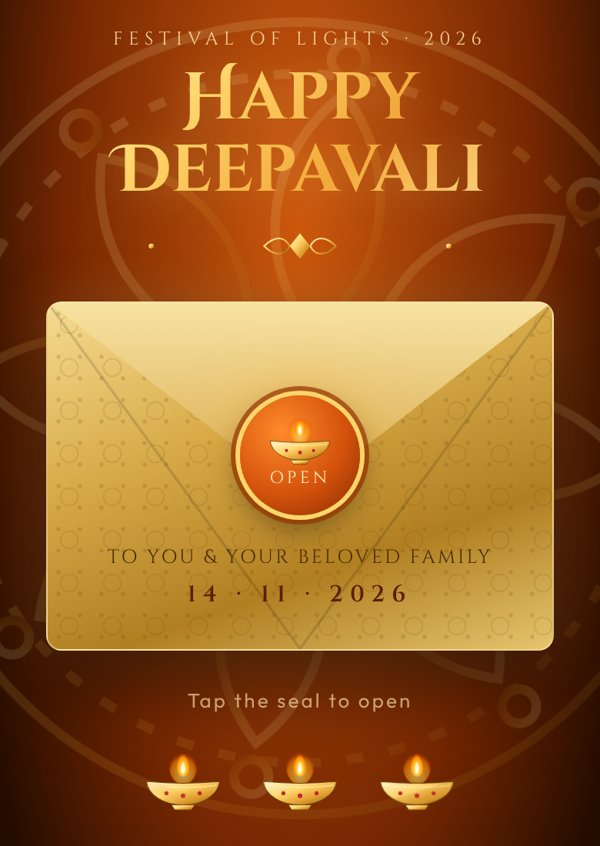
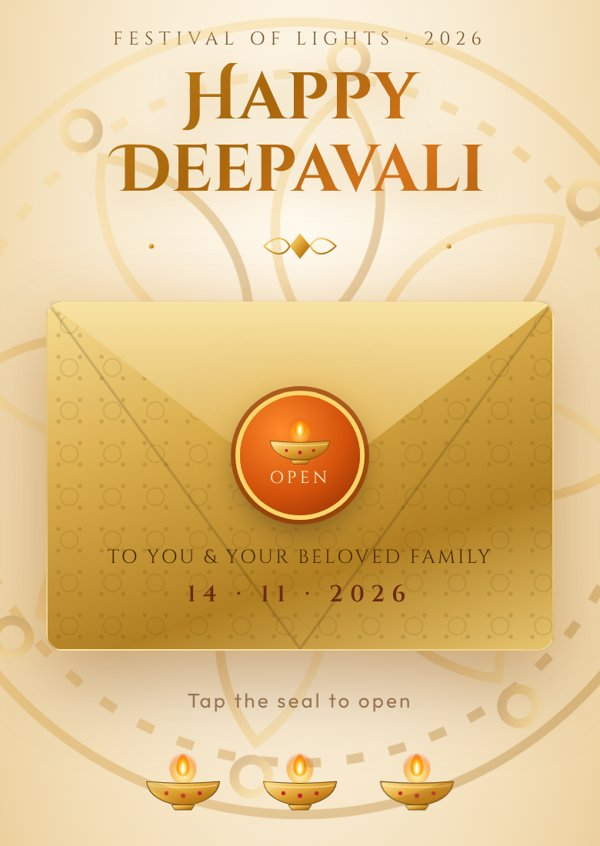
Switch to a light beige theme with gold and orange accents
Dark brown text on cream for readability; deeper gold headings,
orange highlights, fireworks recoloured for a light background.

Claude-Session: https://claude.ai/code/session_014ziKatnzRsJMZRYQMU7ncz

diff --git a/css/style.css b/css/style.css
@@ -1,19 +1,20 @@
 /* ============================================================
-   Deepavali Open House & Housewarming — rich gold theme
+   Deepavali Open House & Housewarming — beige, gold & orange theme
    ============================================================ */
 :root {
-  --maroon: #5a1e00;
-  --maroon-deep: #3a1400;
-  --plum: #5a1f02;
-  --gold: #e8c26a;
-  --gold-light: #fff1bf;
-  --gold-dark: #9a6b1e;
-  --marigold: #ffd27a;
+  --maroon: #6b2a0a;
+  --maroon-deep: #3d1d08;
+  --plum: #f8eedc;
+  --gold: #b07612;
+  --gold-light: #fff3cf;
+  --gold-dark: #8a5a10;
+  --marigold: #d2601a;
   --magenta: #c1272d;
-  --ink: #fff4dc;
-  --muted: #f3d29a;
-  --gold-grad: linear-gradient(135deg, #fff6d0 0%, #ffd56b 30%, #f2a93b 60%, #ffe39a 100%);
-  --card-bg: linear-gradient(160deg, rgba(176, 66, 8, .94), rgba(96, 32, 0, .95));
+  --ink: #3d2410;
+  --muted: #7a5530;
+  --gold-grad: linear-gradient(135deg, #fbe7a8 0%, #f1c45c 35%, #e3a43c 65%, #f8dc8e 100%);
+  --text-grad: linear-gradient(135deg, #c98a1c 0%, #a8660c 40%, #d9741a 70%, #95580a 100%);
+  --card-bg: linear-gradient(160deg, #fffaf0, #f7e7c9);
   --radius: 18px;
   --serif: "Cormorant Garamond", Georgia, serif;
   --display: "Cinzel Decorative", "Cinzel", serif;
@@ -43,20 +44,20 @@ svg { display: block; }
 .bg-glow {
   position: fixed; inset: 0; pointer-events: none; z-index: 0;
   background:
-    radial-gradient(circle at 15% 20%, rgba(255, 159, 28, .22), transparent 35%),
-    radial-gradient(circle at 85% 70%, rgba(255, 196, 80, .16), transparent 40%),
-    radial-gradient(circle at 50% 110%, rgba(255, 110, 20, .35), transparent 50%),
-    radial-gradient(ellipse at 50% 0%, #c9560c 0%, #9a3a06 40%, #6a2402 80%, #5a1f02 100%);
+    radial-gradient(circle at 10% 15%, rgba(255, 168, 80, .22), transparent 35%),
+    radial-gradient(circle at 90% 65%, rgba(240, 190, 90, .25), transparent 40%),
+    radial-gradient(circle at 50% 110%, rgba(255, 150, 70, .22), transparent 50%),
+    linear-gradient(180deg, #fdf6e8 0%, #f8ecd6 50%, #f3e1c2 100%);
 }
 .bg-glow::after {
-  content: ""; position: absolute; inset: 0; opacity: .06;
+  content: ""; position: absolute; inset: 0; opacity: .12;
   background-image: radial-gradient(circle, var(--gold) 1px, transparent 1.4px);
   background-size: 26px 26px;
 }
 .bg-sparkles { position: fixed; inset: 0; pointer-events: none; z-index: 1; overflow: hidden; }
 .bg-sparkles i {
   position: absolute; bottom: -10px; width: 4px; height: 4px; border-radius: 50%;
-  background: var(--gold-light); box-shadow: 0 0 8px 2px rgba(255, 200, 90, .8);
+  background: #f0b040; box-shadow: 0 0 8px 2px rgba(240, 160, 40, .6);
   animation: rise linear infinite; opacity: 0;
 }
 @keyframes rise {
@@ -68,7 +69,7 @@ svg { display: block; }
 
 /* ---------- gold text helper ---------- */
 .gold-text, .cover-title, .sec-title, .event-name, .closing-wish, .script, .countdown b, .tally b {
-  background: var(--gold-grad);
+  background: var(--text-grad);
   -webkit-background-clip: text; background-clip: text;
   color: transparent;
 }
@@ -84,7 +85,7 @@ svg { display: block; }
   display: grid; place-items: center;
   padding: 24px 16px;
   background:
-    radial-gradient(ellipse at 50% 35%, rgba(214, 92, 14, .95), rgba(120, 40, 2, .97) 55%, rgba(36, 12, 0, .99) 85%),
+    radial-gradient(ellipse at 50% 38%, #fffaf0 0%, #f8ead0 45%, #efd6a8 80%, #e6c58c 100%),
     var(--plum);
   transition: opacity 1s ease, visibility 1s;
   overflow: hidden;
@@ -93,14 +94,14 @@ svg { display: block; }
 .cover-inner { position: relative; text-align: center; width: 100%; max-width: 420px; }
 .cover-rangoli {
   position: absolute; left: 50%; top: 50%; width: 560px; height: 560px;
-  transform: translate(-50%, -50%); opacity: .14; animation: spin 80s linear infinite; pointer-events: none;
+  transform: translate(-50%, -50%); opacity: .3; animation: spin 80s linear infinite; pointer-events: none;
 }
 @keyframes spin { to { transform: translate(-50%, -50%) rotate(360deg); } }
 .cover-kicker { font-family: var(--caps); letter-spacing: .3em; font-size: 12px; color: var(--muted); margin: 0 0 6px; text-transform: uppercase; }
 .cover-title {
   font-family: var(--display); font-weight: 700; margin: 0; line-height: 1.1;
   font-size: clamp(38px, 11vw, 56px);
-  filter: drop-shadow(0 2px 12px rgba(232, 194, 106, .35));
+  filter: drop-shadow(0 2px 12px rgba(196, 140, 40, .35));
 }
 .cover-hint { font-family: var(--sans); font-size: 13px; letter-spacing: .12em; color: var(--muted); margin-top: 22px; animation: pulse 2.2s ease-in-out infinite; }
 @keyframes pulse { 50% { opacity: .45; } }
@@ -122,7 +123,7 @@ svg { display: block; }
 .env-back, .env-front, .env-flap { position: absolute; inset: 0; border-radius: 10px; }
 .env-back {
   background: linear-gradient(160deg, #8d6420, #5a3d0c);
-  box-shadow: 0 24px 50px rgba(0, 0, 0, .55), 0 0 40px rgba(232, 194, 106, .2);
+  box-shadow: 0 24px 50px rgba(120, 70, 20, .35), 0 0 40px rgba(240, 170, 60, .3);
 }
 .env-letter {
   position: absolute; left: 7%; right: 7%; top: 8%; height: 84%;
@@ -192,12 +193,12 @@ main { position: relative; z-index: 2; }
 .card {
   position: relative; padding: 40px 24px; border-radius: var(--radius);
   background: var(--card-bg);
-  border: 1px solid rgba(232, 194, 106, .45);
-  box-shadow: 0 0 0 6px rgba(232, 194, 106, .06), 0 20px 50px rgba(0, 0, 0, .45), inset 0 0 40px rgba(232, 194, 106, .06);
+  border: 1px solid rgba(196, 140, 40, .45);
+  box-shadow: 0 0 0 6px rgba(196, 140, 40, .06), 0 20px 50px rgba(120, 70, 20, .16), inset 0 0 40px rgba(196, 140, 40, .06);
 }
 .card::before {
   content: ""; position: absolute; inset: 8px; border-radius: calc(var(--radius) - 6px);
-  border: 1px dashed rgba(232, 194, 106, .3); pointer-events: none;
+  border: 1px dashed rgba(196, 140, 40, .3); pointer-events: none;
 }
 
 /* reveal on scroll */
@@ -217,8 +218,8 @@ main { position: relative; z-index: 2; }
   position: relative; margin: 14px auto 0; max-width: 520px; aspect-ratio: 9 / 16; max-height: 78vh;
   border-radius: var(--radius); overflow: hidden;
   border: 2px solid transparent;
-  background: linear-gradient(var(--maroon-deep), var(--maroon-deep)) padding-box, var(--gold-grad) border-box;
-  box-shadow: 0 20px 50px rgba(0, 0, 0, .5), 0 0 40px rgba(232, 194, 106, .15);
+  background: linear-gradient(#fffaf0, #f7e7c9) padding-box, var(--gold-grad) border-box;
+  box-shadow: 0 20px 50px rgba(120, 70, 20, .25), 0 0 40px rgba(196, 140, 40, .15);
 }
 .video-frame.landscape { aspect-ratio: 16 / 9; }
 .video-frame video, .video-frame iframe { width: 100%; height: 100%; border: 0; display: block; object-fit: cover; background: #000; }
@@ -239,7 +240,7 @@ main { position: relative; z-index: 2; }
 .detail-grid { display: grid; grid-template-columns: 1fr 1fr; gap: 14px; margin-top: 24px; }
 .detail {
   padding: 22px 14px; border-radius: 14px; background: var(--card-bg);
-  border: 1px solid rgba(232, 194, 106, .35);
+  border: 1px solid rgba(196, 140, 40, .35);
 }
 .detail-wide { grid-column: 1 / -1; }
 .detail .ico { width: 30px; height: 30px; margin: 0 auto 8px; color: var(--gold); }
@@ -248,8 +249,8 @@ main { position: relative; z-index: 2; }
 
 .countdown { display: grid; grid-template-columns: repeat(4, 1fr); gap: 10px; margin: 26px 0; }
 .countdown div {
-  padding: 14px 4px; border-radius: 12px; border: 1px solid rgba(232, 194, 106, .35);
-  background: rgba(60, 18, 0, .35);
+  padding: 14px 4px; border-radius: 12px; border: 1px solid rgba(196, 140, 40, .35);
+  background: rgba(255, 252, 244, .85);
 }
 .countdown b { display: block; font-family: var(--caps); font-size: clamp(26px, 7vw, 36px); line-height: 1.1; font-weight: 600; }
 .countdown span { font-family: var(--sans); font-size: 11px; letter-spacing: .18em; text-transform: uppercase; color: var(--muted); }
@@ -268,11 +269,11 @@ main { position: relative; z-index: 2; }
   min-height: 46px; padding: 10px 22px; border-radius: 999px; cursor: pointer;
   font-family: var(--caps); font-size: 13.5px; font-weight: 600; letter-spacing: .06em; text-decoration: none; white-space: nowrap;
   color: var(--maroon-deep); background: var(--gold-grad); border: 0;
-  box-shadow: 0 6px 18px rgba(0, 0, 0, .35), 0 0 0 1px rgba(255, 241, 191, .6) inset;
+  box-shadow: 0 6px 18px rgba(150, 90, 20, .25), 0 0 0 1px rgba(255, 241, 191, .6) inset;
   transition: transform .2s, box-shadow .2s;
 }
 .btn svg { width: 18px; height: 18px; }
-.btn:hover { transform: translateY(-2px); box-shadow: 0 10px 24px rgba(0, 0, 0, .4), 0 0 20px rgba(232, 194, 106, .4); }
+.btn:hover { transform: translateY(-2px); box-shadow: 0 10px 24px rgba(150, 90, 20, .3), 0 0 20px rgba(196, 140, 40, .4); }
 .btn:focus-visible { outline: 2px solid var(--gold-light); outline-offset: 3px; }
 .btn-ghost { background: transparent; color: var(--gold); box-shadow: 0 0 0 1px var(--gold) inset; }
 .btn-row .btn { flex: 1 1 150px; max-width: 220px; }
@@ -285,35 +286,35 @@ main { position: relative; z-index: 2; }
 .rsvp-form small { text-transform: none; letter-spacing: 0; color: var(--muted); font-family: var(--sans); }
 .rsvp-form input[type=text], .rsvp-form input[type=tel], .rsvp-form select, .rsvp-form textarea {
   width: 100%; font: 400 17px var(--sans); color: var(--ink);
-  background: rgba(60, 18, 0, .4); border: 1px solid rgba(232, 194, 106, .4); border-radius: 10px;
+  background: rgba(255, 252, 244, .85); border: 1px solid rgba(196, 140, 40, .4); border-radius: 10px;
   padding: 12px 14px; outline: none; transition: border-color .2s, box-shadow .2s;
 }
-.rsvp-form select option { background: var(--maroon-deep); }
-.rsvp-form input:focus, .rsvp-form select:focus, .rsvp-form textarea:focus { border-color: var(--gold); box-shadow: 0 0 0 3px rgba(232, 194, 106, .2); }
-.rsvp-form ::placeholder { color: rgba(251, 238, 208, .4); }
+.rsvp-form select option { background: #fff; color: var(--ink); }
+.rsvp-form input:focus, .rsvp-form select:focus, .rsvp-form textarea:focus { border-color: var(--gold); box-shadow: 0 0 0 3px rgba(196, 140, 40, .2); }
+.rsvp-form ::placeholder { color: rgba(61, 36, 16, .4); }
 .choice { border: 0; padding: 0; margin: 0; display: grid; gap: 8px; }
 .choice legend { margin-bottom: 6px; }
 .choice label { cursor: pointer; display: block; }
 .choice input { position: absolute; opacity: 0; }
 .choice span {
   display: block; padding: 12px 14px; border-radius: 10px; font: 400 16px var(--sans); letter-spacing: 0; text-transform: none;
-  color: var(--ink); border: 1px solid rgba(232, 194, 106, .4); background: rgba(60, 18, 0, .35); transition: all .2s;
+  color: var(--ink); border: 1px solid rgba(196, 140, 40, .4); background: rgba(255, 252, 244, .85); transition: all .2s;
 }
 .choice input:checked + span { background: var(--gold-grad); color: var(--maroon-deep); border-color: transparent; font-weight: 500; }
 .choice input:focus-visible + span { outline: 2px solid var(--gold-light); outline-offset: 2px; }
 .pax-field[hidden] { display: none; }
 .btn-solid { width: 100%; margin-top: 4px; }
 .btn[disabled] { opacity: .6; cursor: wait; }
-.form-msg { margin: 0; min-height: 1.4em; text-align: center; font-family: var(--sans); font-size: 15px; color: var(--gold-light); }
-.form-msg.err { color: #ff9a8a; }
+.form-msg { margin: 0; min-height: 1.4em; text-align: center; font-family: var(--sans); font-size: 15px; color: #2e7d32; }
+.form-msg.err { color: #c0392b; }
 
 .tally { display: grid; grid-template-columns: 1fr 1fr; gap: 12px; margin: 28px 0 18px; }
-.tally div { padding: 14px; border-radius: 12px; border: 1px solid rgba(232, 194, 106, .35); background: rgba(60, 18, 0, .35); }
+.tally div { padding: 14px; border-radius: 12px; border: 1px solid rgba(196, 140, 40, .35); background: rgba(255, 252, 244, .85); }
 .tally b { display: block; font-family: var(--caps); font-size: 32px; }
 .tally span { font-family: var(--sans); font-size: 12px; letter-spacing: .15em; text-transform: uppercase; color: var(--muted); }
 .wishes-wall { display: grid; gap: 12px; max-height: 420px; overflow-y: auto; padding: 2px 4px; text-align: left; }
 .wish-item {
-  padding: 14px 16px; border-radius: 12px; background: rgba(60, 18, 0, .38);
+  padding: 14px 16px; border-radius: 12px; background: rgba(255, 252, 244, .85);
   border-left: 3px solid var(--gold);
 }
 .wish-item p { margin: 0 0 4px; font-style: italic; }
@@ -328,7 +329,7 @@ main { position: relative; z-index: 2; }
 .closing { padding-bottom: 96px; }
 .closing-rangoli { width: 130px; height: 130px; margin: 0 auto 18px; animation: spinFree 50s linear infinite; }
 .closing-line { font-size: 22px; font-style: italic; margin: 0; }
-.closing-wish { font-family: var(--display); font-size: clamp(40px, 12vw, 62px); line-height: 1.1; margin: 10px 0; filter: drop-shadow(0 2px 14px rgba(232, 194, 106, .4)); }
+.closing-wish { font-family: var(--display); font-size: clamp(40px, 12vw, 62px); line-height: 1.1; margin: 10px 0; filter: drop-shadow(0 2px 14px rgba(196, 140, 40, .4)); }
 .closing-note { margin: 0 auto; max-width: 440px; color: var(--muted); }
 .closing-from { margin-top: 22px; font-family: var(--script); font-size: 30px; color: var(--gold); }
 .closing-diyas { display: flex; justify-content: center; gap: 10px; margin-top: 20px; }
@@ -337,7 +338,7 @@ main { position: relative; z-index: 2; }
 /* ---------- music button ---------- */
 .music-btn {
   position: fixed; right: 16px; bottom: 16px; z-index: 40; width: 48px; height: 48px; border-radius: 50%;
-  border: 1px solid var(--gold); background: rgba(90, 30, 0, .88); color: var(--gold); cursor: pointer;
+  border: 1px solid var(--gold); background: rgba(255, 250, 240, .92); color: var(--gold); cursor: pointer;
   display: grid; place-items: center; backdrop-filter: blur(6px);
 }
 .music-btn[hidden] { display: none; }

diff --git a/js/app.js b/js/app.js
@@ -52,12 +52,12 @@
     var cv = $('#fireworks'), ctx = cv.getContext('2d');
     var parts = [], rockets = [], raf = null, dpr = Math.min(window.devicePixelRatio || 1, 2);
     var palettes = [
-      ['#fff1bf', '#e8c26a', '#ffb703'],
-      ['#ff9f1c', '#ffd166', '#fff1bf'],
-      ['#ff4d6d', '#ffb3c6', '#e8c26a'],
-      ['#c77dff', '#e0aaff', '#fff1bf'],
-      ['#4cc9f0', '#bde0fe', '#e8c26a'],
-      ['#80ed99', '#e8c26a', '#fff1bf']
+      ['#e0a020', '#f5c542', '#c47a10'],
+      ['#f07818', '#ffb02e', '#d9a030'],
+      ['#e0305a', '#ff7a90', '#e8b040'],
+      ['#9b4dca', '#c77dff', '#e8b040'],
+      ['#1e88c8', '#4cc9f0', '#e8b040'],
+      ['#2e9d5a', '#6fd08c', '#e8b040']
     ];
     function size() { cv.width = innerWidth * dpr; cv.height = innerHeight * dpr; ctx.setTransform(dpr, 0, 0, dpr, 0, 0); }
     size(); addEventListener('resize', size);
@@ -74,7 +74,7 @@
       // crackle sparks
       for (var j = 0; j < 24; j++) {
         parts.push({ x: x, y: y, vx: (Math.random() - .5) * 3, vy: (Math.random() - .5) * 3, life: 1, decay: 0.02 + Math.random() * 0.02,
-          color: '#fffbe0', r: 0.9, crackle: true, trail: [] });
+          color: '#f5b400', r: 1, crackle: true, trail: [] });
       }
       run();
     }
@@ -91,7 +91,7 @@
     function frame() {
       ctx.globalCompositeOperation = 'source-over';
       ctx.clearRect(0, 0, innerWidth, innerHeight);
-      ctx.globalCompositeOperation = 'lighter';
+      ctx.globalCompositeOperation = 'source-over';
       for (var i = rockets.length - 1; i >= 0; i--) {
         var r = rockets[i];
         r.x += r.vx; r.y += r.vy; r.vy *= 0.985;

diff --git a/index.html b/index.html
@@ -5,7 +5,7 @@
 <meta name="viewport" content="width=device-width, initial-scale=1, viewport-fit=cover">
 <title>Happy Deepavali · Open House &amp; Housewarming</title>
 <meta name="description" content="You and your family are warmly invited to our Deepavali Open House &amp; Housewarming, Saturday 14 November 2026, 6pm – 10pm, Bandar Gamuda Cove, Banting.">
-<meta name="theme-color" content="#b8460a">
+<meta name="theme-color" content="#f8eedc">
 <meta property="og:type" content="website">
 <meta property="og:title" content="Happy Deepavali · Open House &amp; Housewarming">
 <meta property="og:description" content="Saturday · 14 November 2026 · 6pm – 10pm · Bandar Gamuda Cove, Banting">
@@ -21,10 +21,10 @@
 <svg class="sprite" aria-hidden="true" focusable="false">
   <defs>
     <linearGradient id="gold" x1="0" y1="0" x2="1" y2="1">
-      <stop offset="0" stop-color="#fff6d0"/>
-      <stop offset=".4" stop-color="#ffd56b"/>
-      <stop offset=".7" stop-color="#e09a2c"/>
-      <stop offset="1" stop-color="#7a5414"/>
+      <stop offset="0" stop-color="#ffe7a0"/>
+      <stop offset=".4" stop-color="#e8b040"/>
+      <stop offset=".7" stop-color="#c4801a"/>
+      <stop offset="1" stop-color="#8a5a10"/>
     </linearGradient>
     <radialGradient id="flame" cx=".5" cy=".7" r=".6">
       <stop offset="0" stop-color="#fffbe0"/>

diff --git a/README.md b/README.md
@@ -1,7 +1,7 @@
 # Happy Deepavali · Open House & Housewarming
 
 Digital invitation (e-card) for our Deepavali Open House & Housewarming.
-Theme: saffron orange and rich gold. It's a static site (HTML/CSS/JS) with no build step.
+Theme: cream beige with gold and orange accents. It's a static site (HTML/CSS/JS) with no build step.
 
 **Saturday, 14 November 2026 · 6:00 PM – 10:00 PM**
 No 19, Jalan Rimba 15, Taman Rimba, Bandar Gamuda Cove, Banting, Kuala Langat, 42700 Selangor
